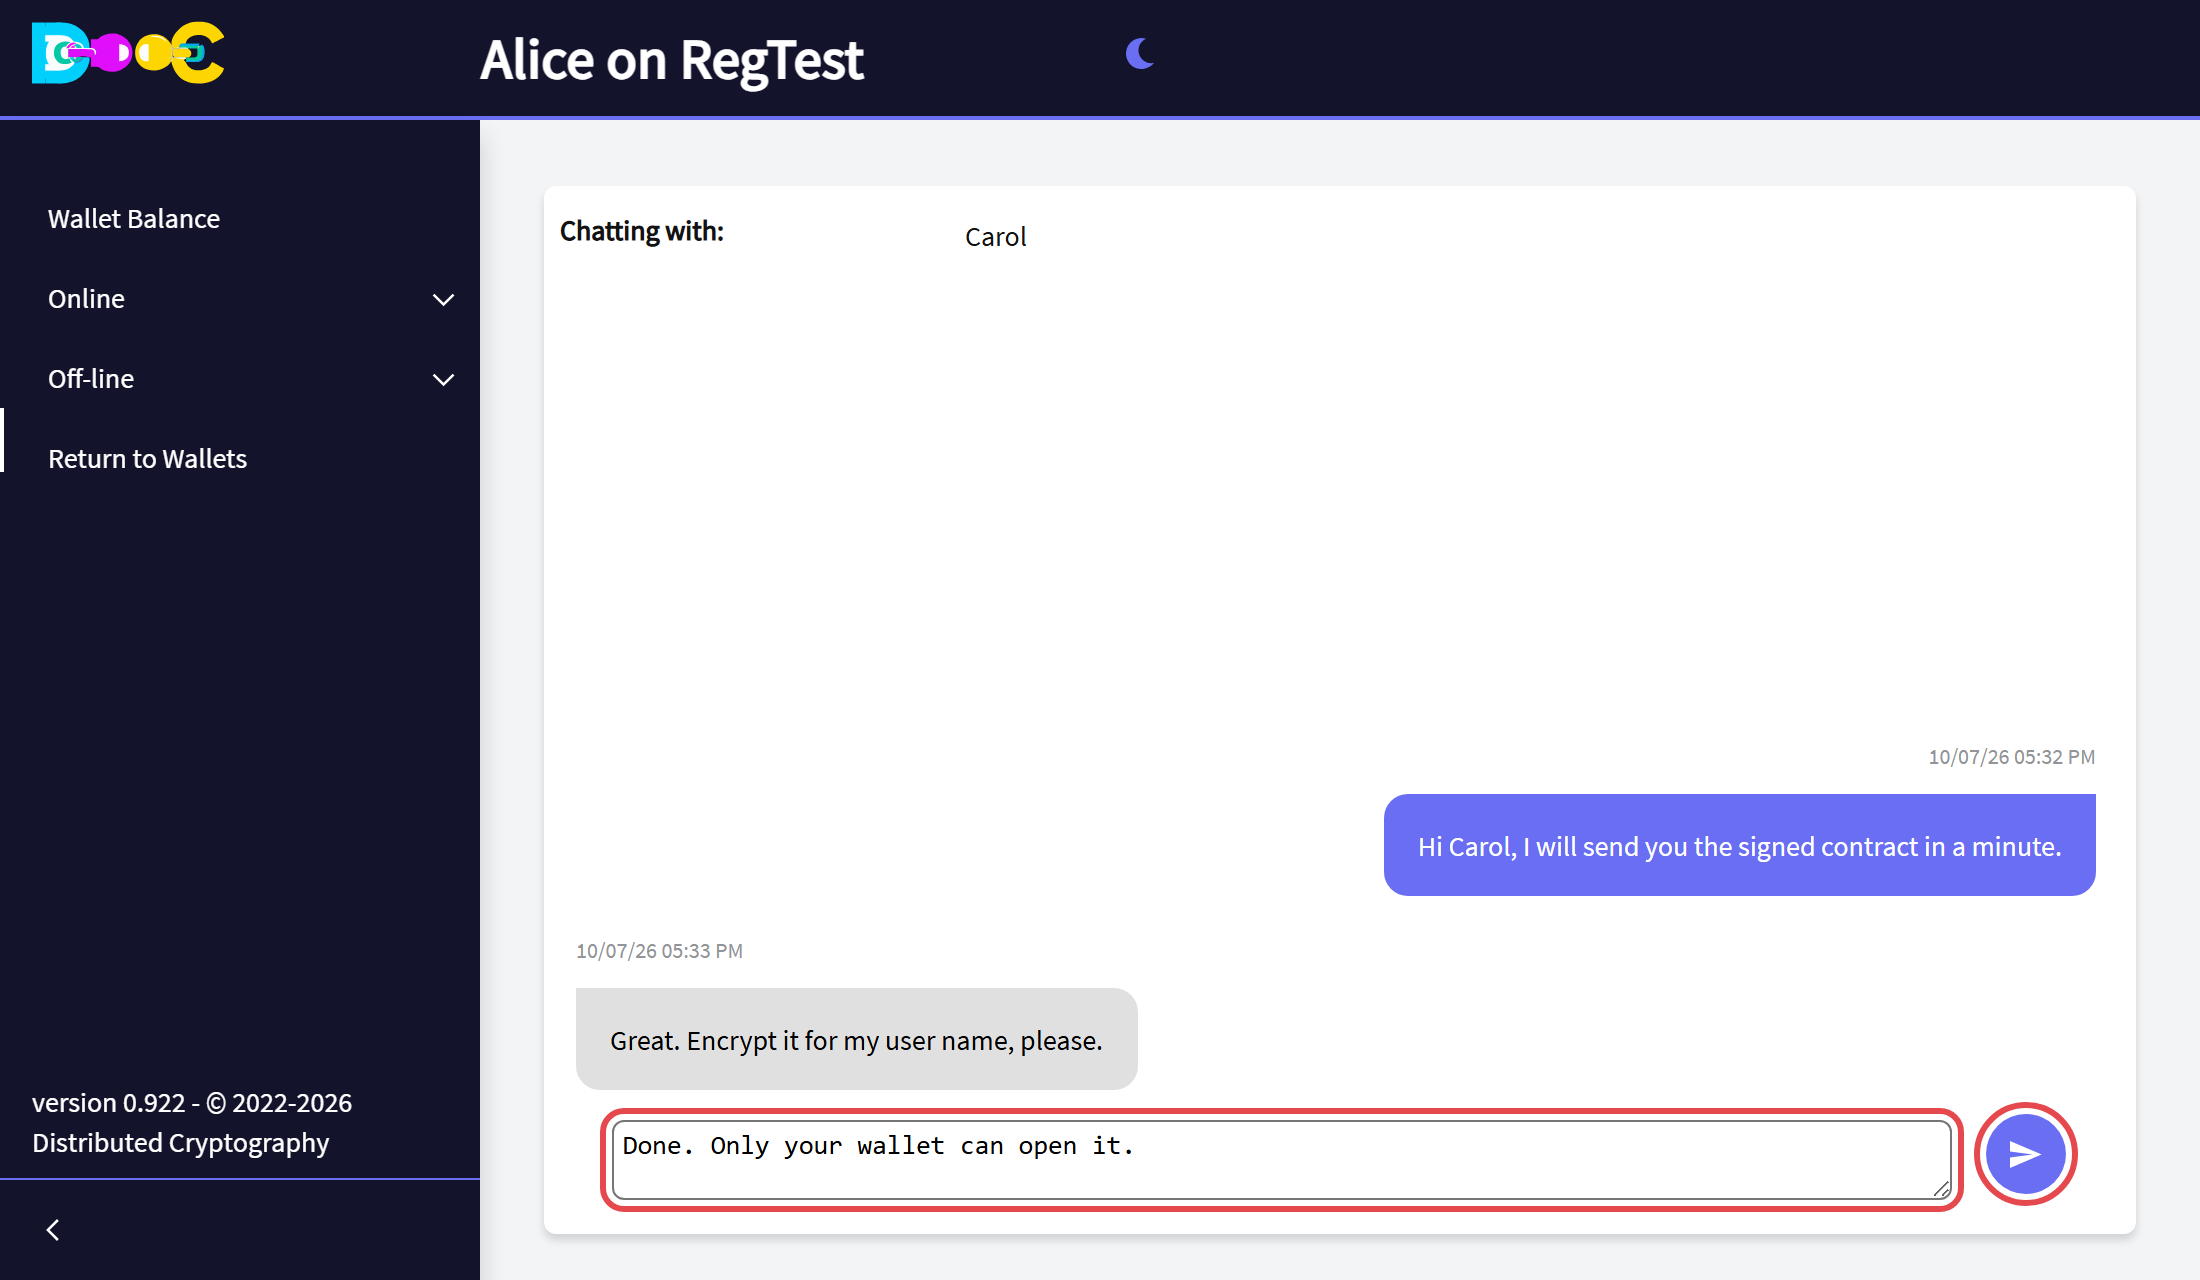
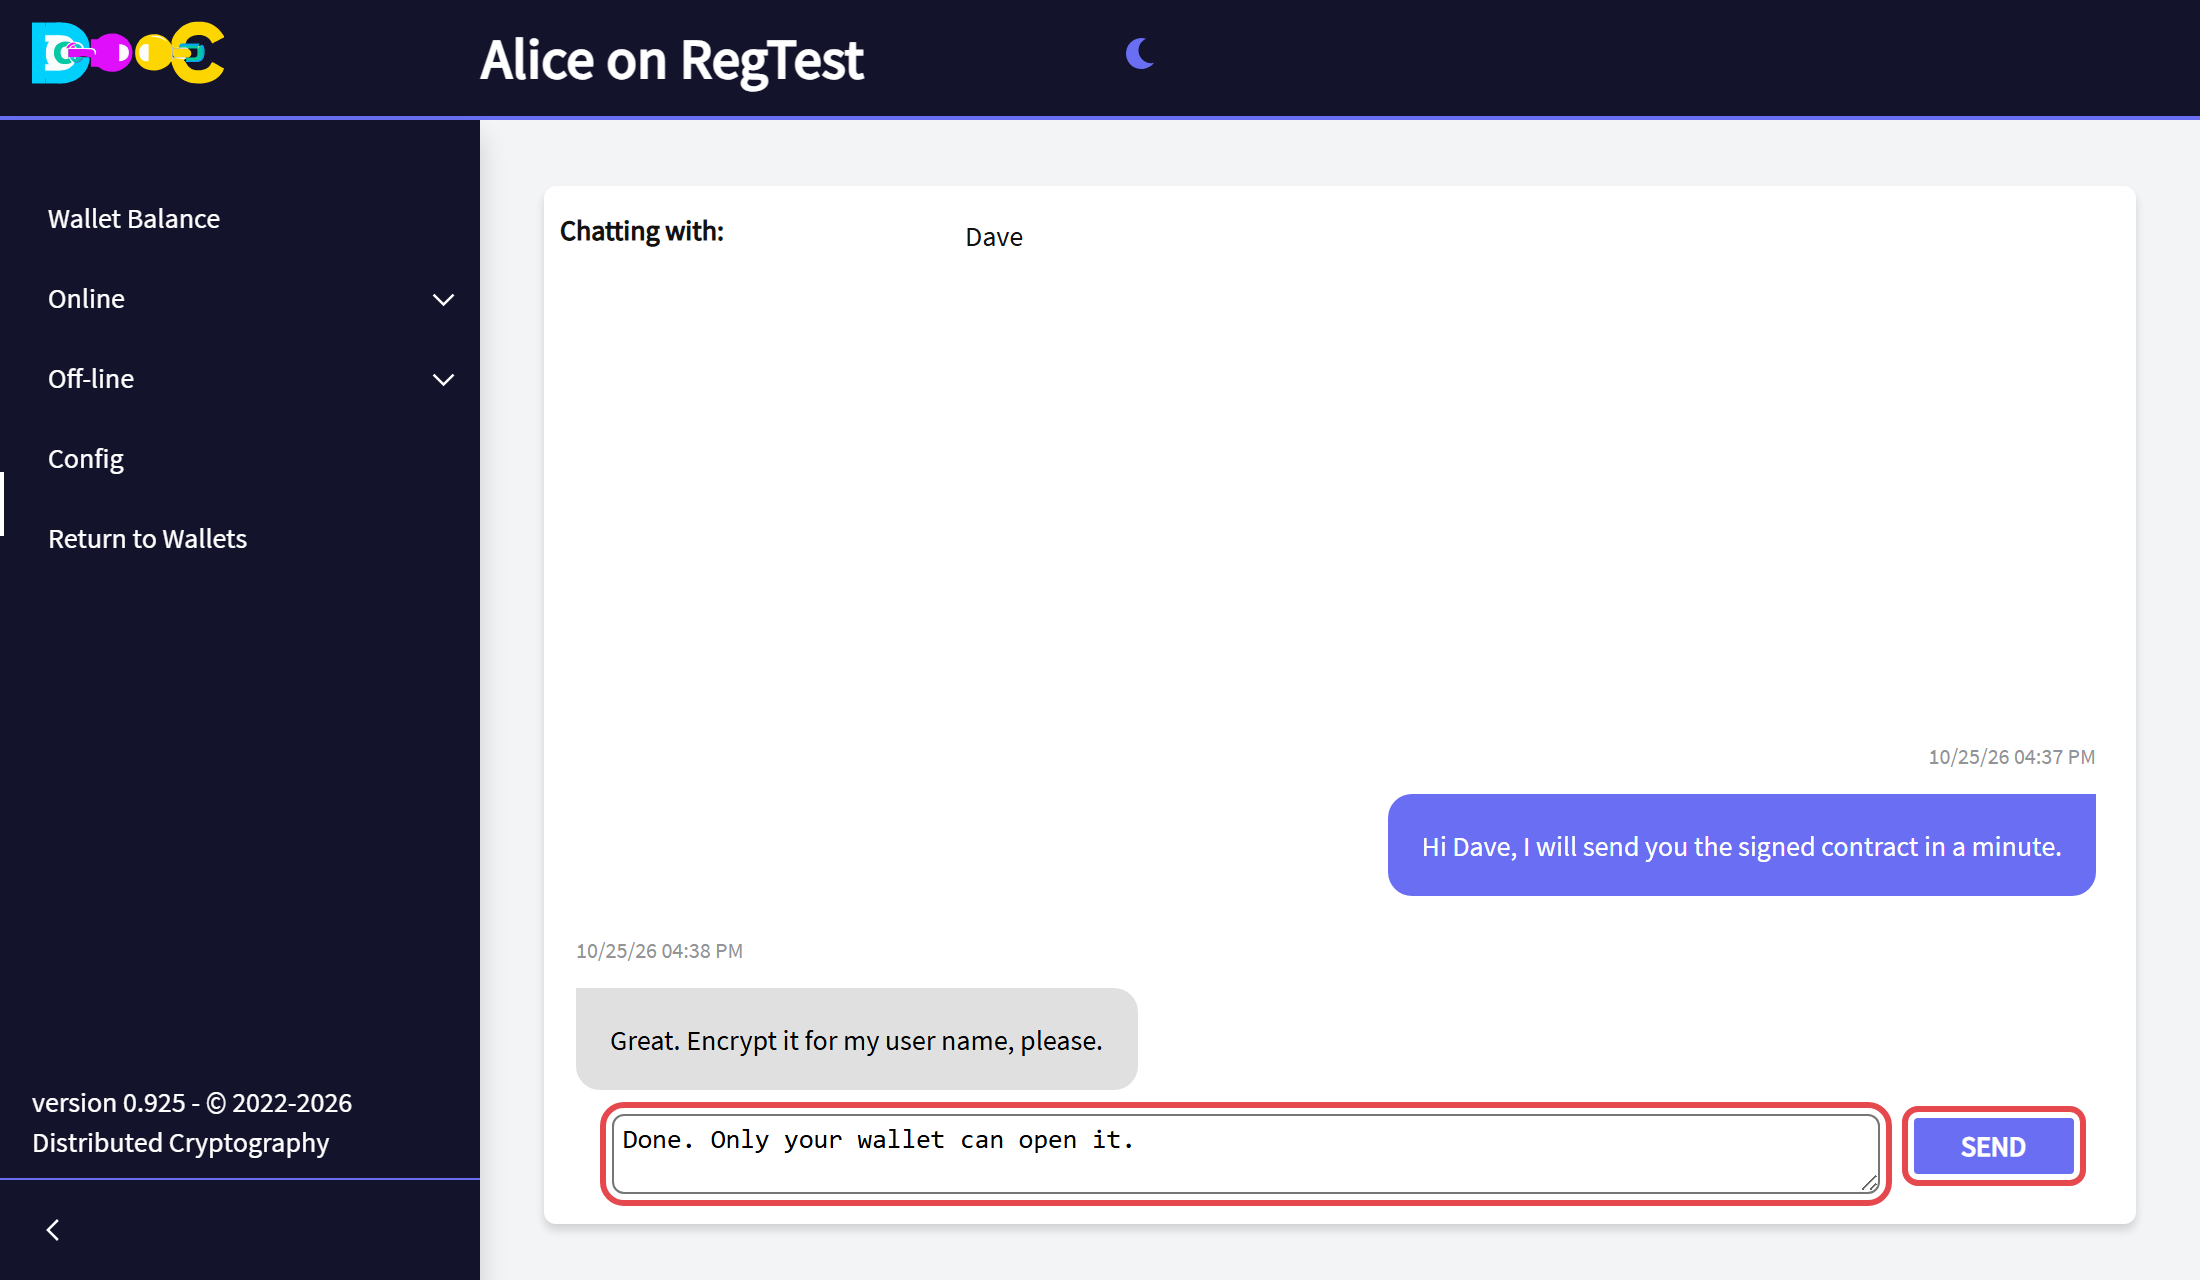
Docs: Group Chat page (next release), chat with the Send button, notifications opened from their title

diff --git a/docs/src/content/docs/groups/index.md b/docs/src/content/docs/groups/index.md
@@ -13,6 +13,8 @@ can do alone. The jobs are:
 | [Delegated Multisignature](/groups/delegated-multisignature/) | A bitcoin wallet you can always spend from alone, and that K of the N people you choose can also spend from, built on Taproot |
 | [Legacy Multisignature](/groups/legacy-multisignature/) | A classic multisignature wallet where K of N equal members must approve each payment, compatible with other software |
 | [Shared passwords](/groups/shared-passwords/) (in the app: *Encrypted Passwords*) | A password vault where you decide which member sees which password |
+| [Multi Signature](/groups/multi-signature/) (next release) | A Taproot bitcoin wallet where everybody, the creator included, is an equal signer and K of the N must sign each payment |
+| [Group Chat](/groups/group-chat/) (next release) | A chat of several people, everyone with everyone, encrypted and signed |
 
 ## How every group works
 
